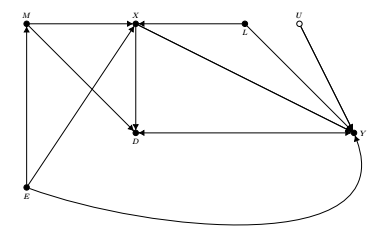
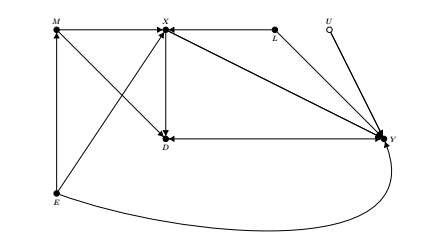
update graph

diff --git a/graphs/causal_graph.tex b/graphs/causal_graph.tex
@@ -15,7 +15,7 @@
 	\node[s, label=below:$L$] (l) at (4,4){};
 	\node[s, label=above:$X$] (x) at (2,4){};
     \node[s, label=right:$Y$] (y) at (6,2){};
-	\node[h, label=above:$U$] (u) at (5,4){};
+	\node[h, label=above:$U$] (u) at (4,1){};
 
 	% Arrows
 	\draw[->] (x) edge (y);
@@ -31,7 +31,7 @@
     \draw[->] (m) edge (d);
     \draw[->] (x) edge (y);
     \draw[->] (u) edge (y);
-    \draw[->] (u) edge (y);
+    \draw[->] (u) edge (d);
     \draw[<->] (d) edge (y);
 \end{tikzpicture}
 \end{document}
